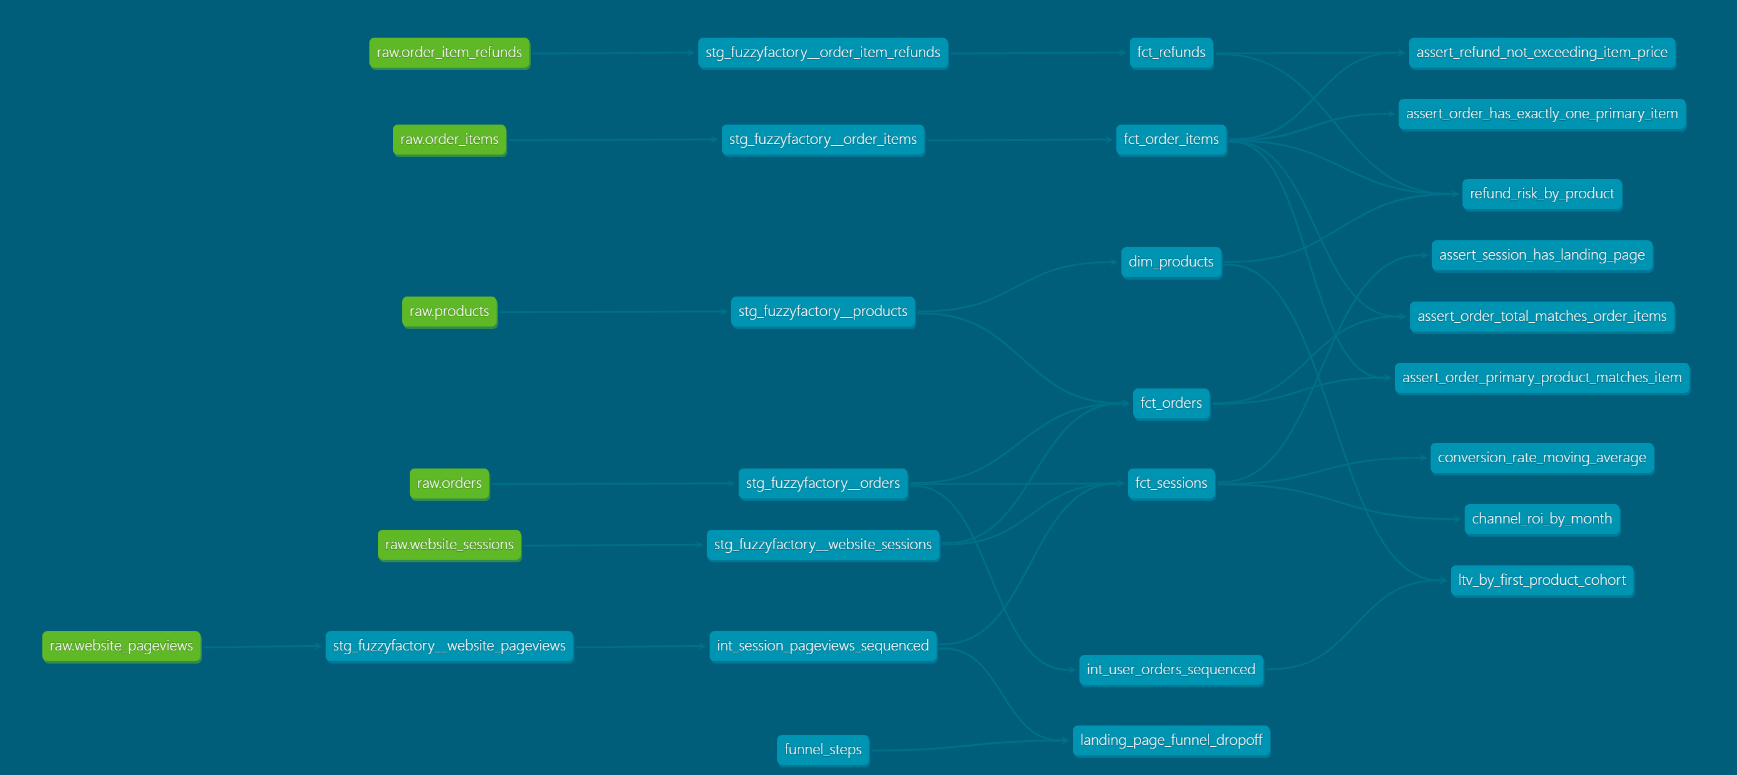
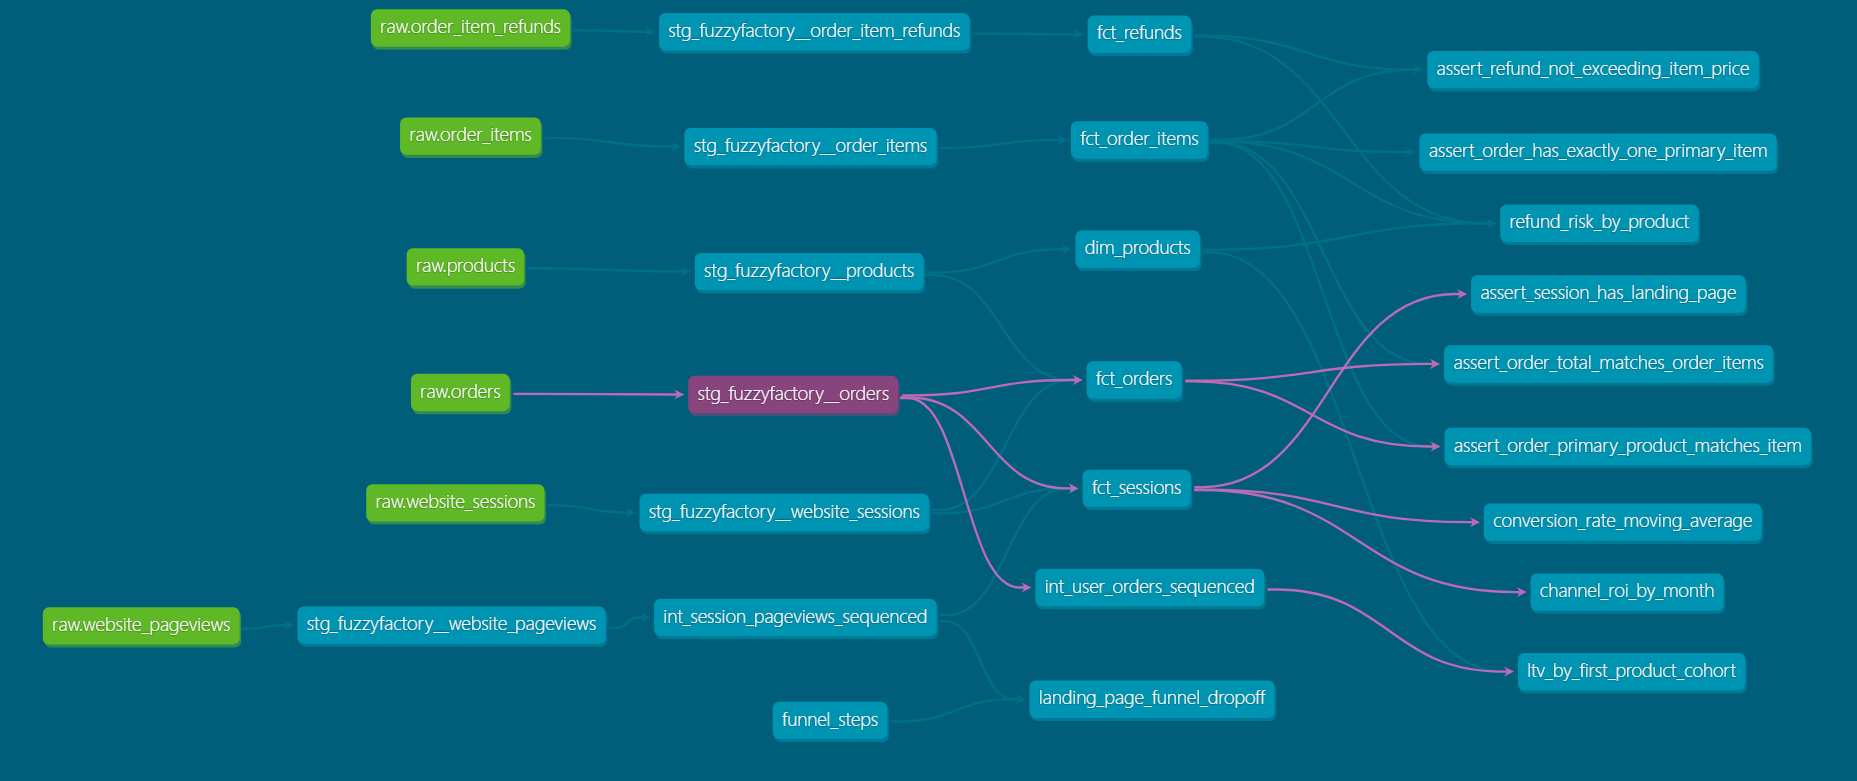
feat: update architecture diagram to use mermaid syntax for better visualization

diff --git a/README.md b/README.md
@@ -33,21 +33,23 @@ thành quyết định kinh doanh.
 
 ## Kiến trúc
 
-```
-┌─────────────┐   dbt-duckdb    ┌──────────────┐  Cosmos: 1 model = 1  ┌─────────────┐
-│  Postgres   │  postgres ext.  │   DuckDB     │  Task Group (run+test)│  dbt marts  │
-│  (OLTP src) │ ───────────────▶│ raw schema   │──────────────────────▶│ star schema │
-└─────────────┘  extract_load   └──────────────┘                       └─────────────┘
-        ▲                              ▲                                      ▲
-        │                              │                                      │
-        └──────── extract_load >> dbt_models (Cosmos TaskGroup) >> dbt_docs ──┘
-                       (chay tren airflow-scheduler qua LocalExecutor)
+```mermaid
+flowchart TB
+    PG[("Postgres<br/>OLTP source")] -->|"extract_load.py<br/>(postgres extension)"| RAW[("DuckDB<br/>raw schema")]
+    RAW -->|"Cosmos: 1 model = 1 Task Group<br/>(run + test)"| MART[("dbt marts<br/>star schema")]
 
-┌──────────────────── Airflow (LocalExecutor) ────────────────────┐
-│        airflow-webserver (UI)     airflow-scheduler              │
-│               │                          │ (tu chay task local)  │
-│               └──── airflow-postgres (metadata riêng) ───────────┘
-└────────────────────────────────────────────────────────────────┘
+    subgraph AF["Airflow (LocalExecutor)"]
+        direction LR
+        WEB["airflow-webserver<br/>(UI)"]
+        SCHED["airflow-scheduler<br/>(tự chạy task cục bộ)"]
+        META[("airflow-postgres<br/>metadata riêng")]
+        WEB --- META
+        SCHED --- META
+    end
+
+    SCHED -. "extract_load ▸ dbt_models (Cosmos) ▸ dbt_docs" .-> PG
+    SCHED -.-> RAW
+    SCHED -.-> MART
 ```
 
 Toàn bộ chạy qua `docker-compose`. Airflow dùng `LocalExecutor` — scheduler
